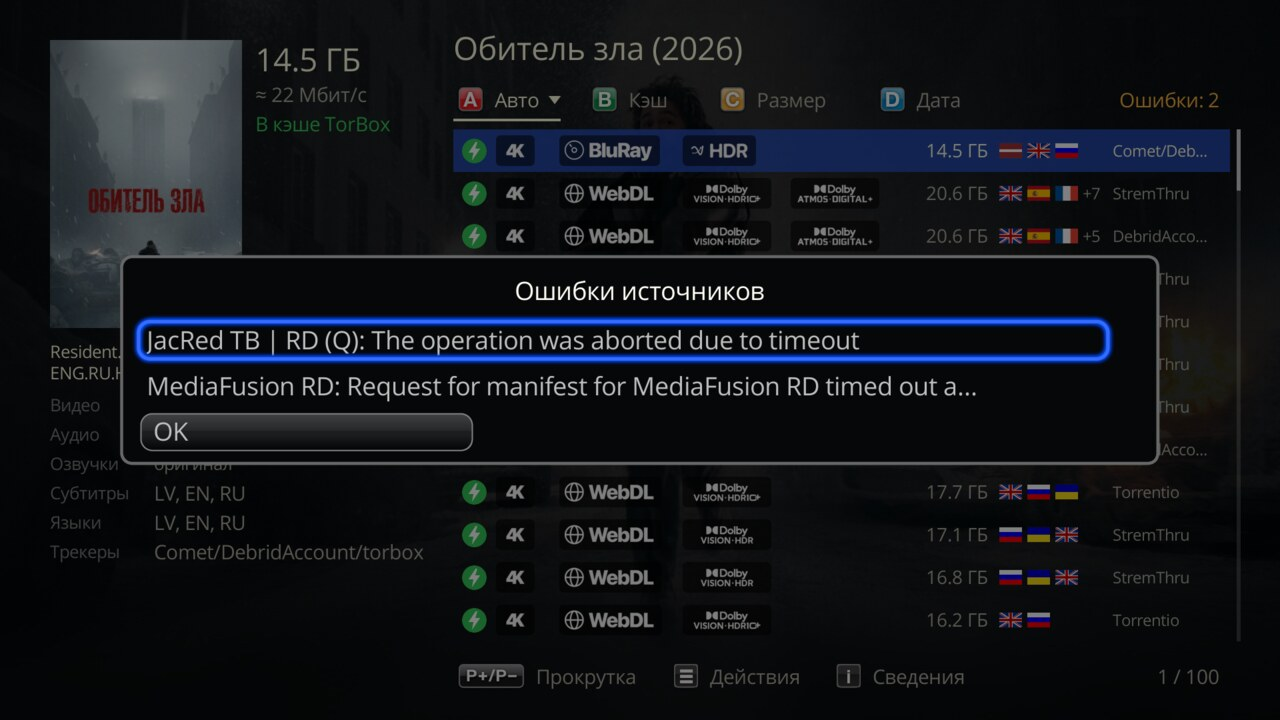
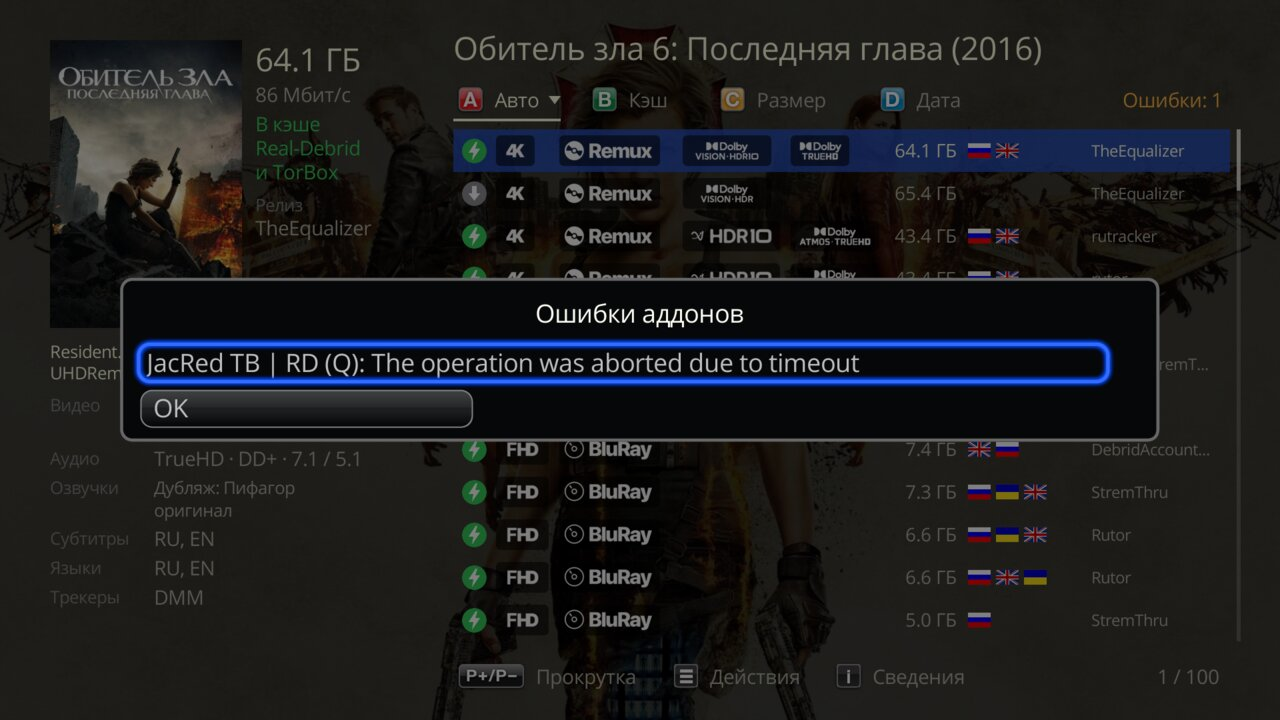
docs: кадры источников v2 с Дюны — меню и выбор источника, «Ошибки аддонов»

diff --git a/docs/advanced-options.md b/docs/advanced-options.md
@@ -16,9 +16,9 @@
 
 4. «Ошибки аддонов»: включите, если раздач мало или нет совсем. Над списком раздач появится число ошибок, причины покажет **POP UP** → «Ошибки аддонов».
 
-   <img src="../screenshots/advanced-errors-menu.jpg" alt="Список раздач «Обитель зла»: справа сверху «Ошибки: 2», открыто меню, фокус на «Ошибки аддонов»" width="100%">
+   <img src="../screenshots/advanced-errors-menu.jpg" alt="Список раздач «Обитель зла»: справа сверху «Ошибки: 1», открыто меню, фокус на «Ошибки аддонов»" width="100%">
 
-   <img src="../screenshots/advanced-errors.jpg" alt="Окно «Ошибки аддонов»: JacRed и MediaFusion не ответили вовремя" width="100%">
+   <img src="../screenshots/advanced-errors.jpg" alt="Окно «Ошибки аддонов»: JacRed не ответил вовремя" width="100%">
 
 5. «Пульт без цветных кнопок»: включите, если на пульте нет цветных кнопок или INFO. Тогда в меню **POP UP** списка раздач первыми будут «Сведения о раздаче» и «Сортировка». Если выбрать текущую сортировку ещё раз, порядок сменится на обратный.
 

diff --git a/docs/advanced-options.en.md b/docs/advanced-options.en.md
@@ -16,9 +16,9 @@ Choose whether Melange starts torrents, shows skip-intro buttons and reports add
 
 4. "Addon errors": turn it on if there are few releases or none. The number of errors appears above the release list; **POP UP** → "Addon errors" shows the reasons.
 
-   <img src="../screenshots/advanced-errors-menu.jpg" alt="Release list for Resident Evil: Errors: 2 at the top right, the menu is open, focus on Addon errors" width="100%">
+   <img src="../screenshots/advanced-errors-menu.jpg" alt="Release list for Resident Evil: Errors: 1 at the top right, the menu is open, focus on Addon errors" width="100%">
 
-   <img src="../screenshots/advanced-errors.jpg" alt="Addon errors window: JacRed and MediaFusion did not answer in time" width="100%">
+   <img src="../screenshots/advanced-errors.jpg" alt="Addon errors window: JacRed did not answer in time" width="100%">
 
 5. "Remote without colour buttons": turn it on if your remote has no colour buttons or INFO. Then the **POP UP** menu of the release list starts with "Release details" and "Sort". Choosing the current sort again reverses the order.
 
